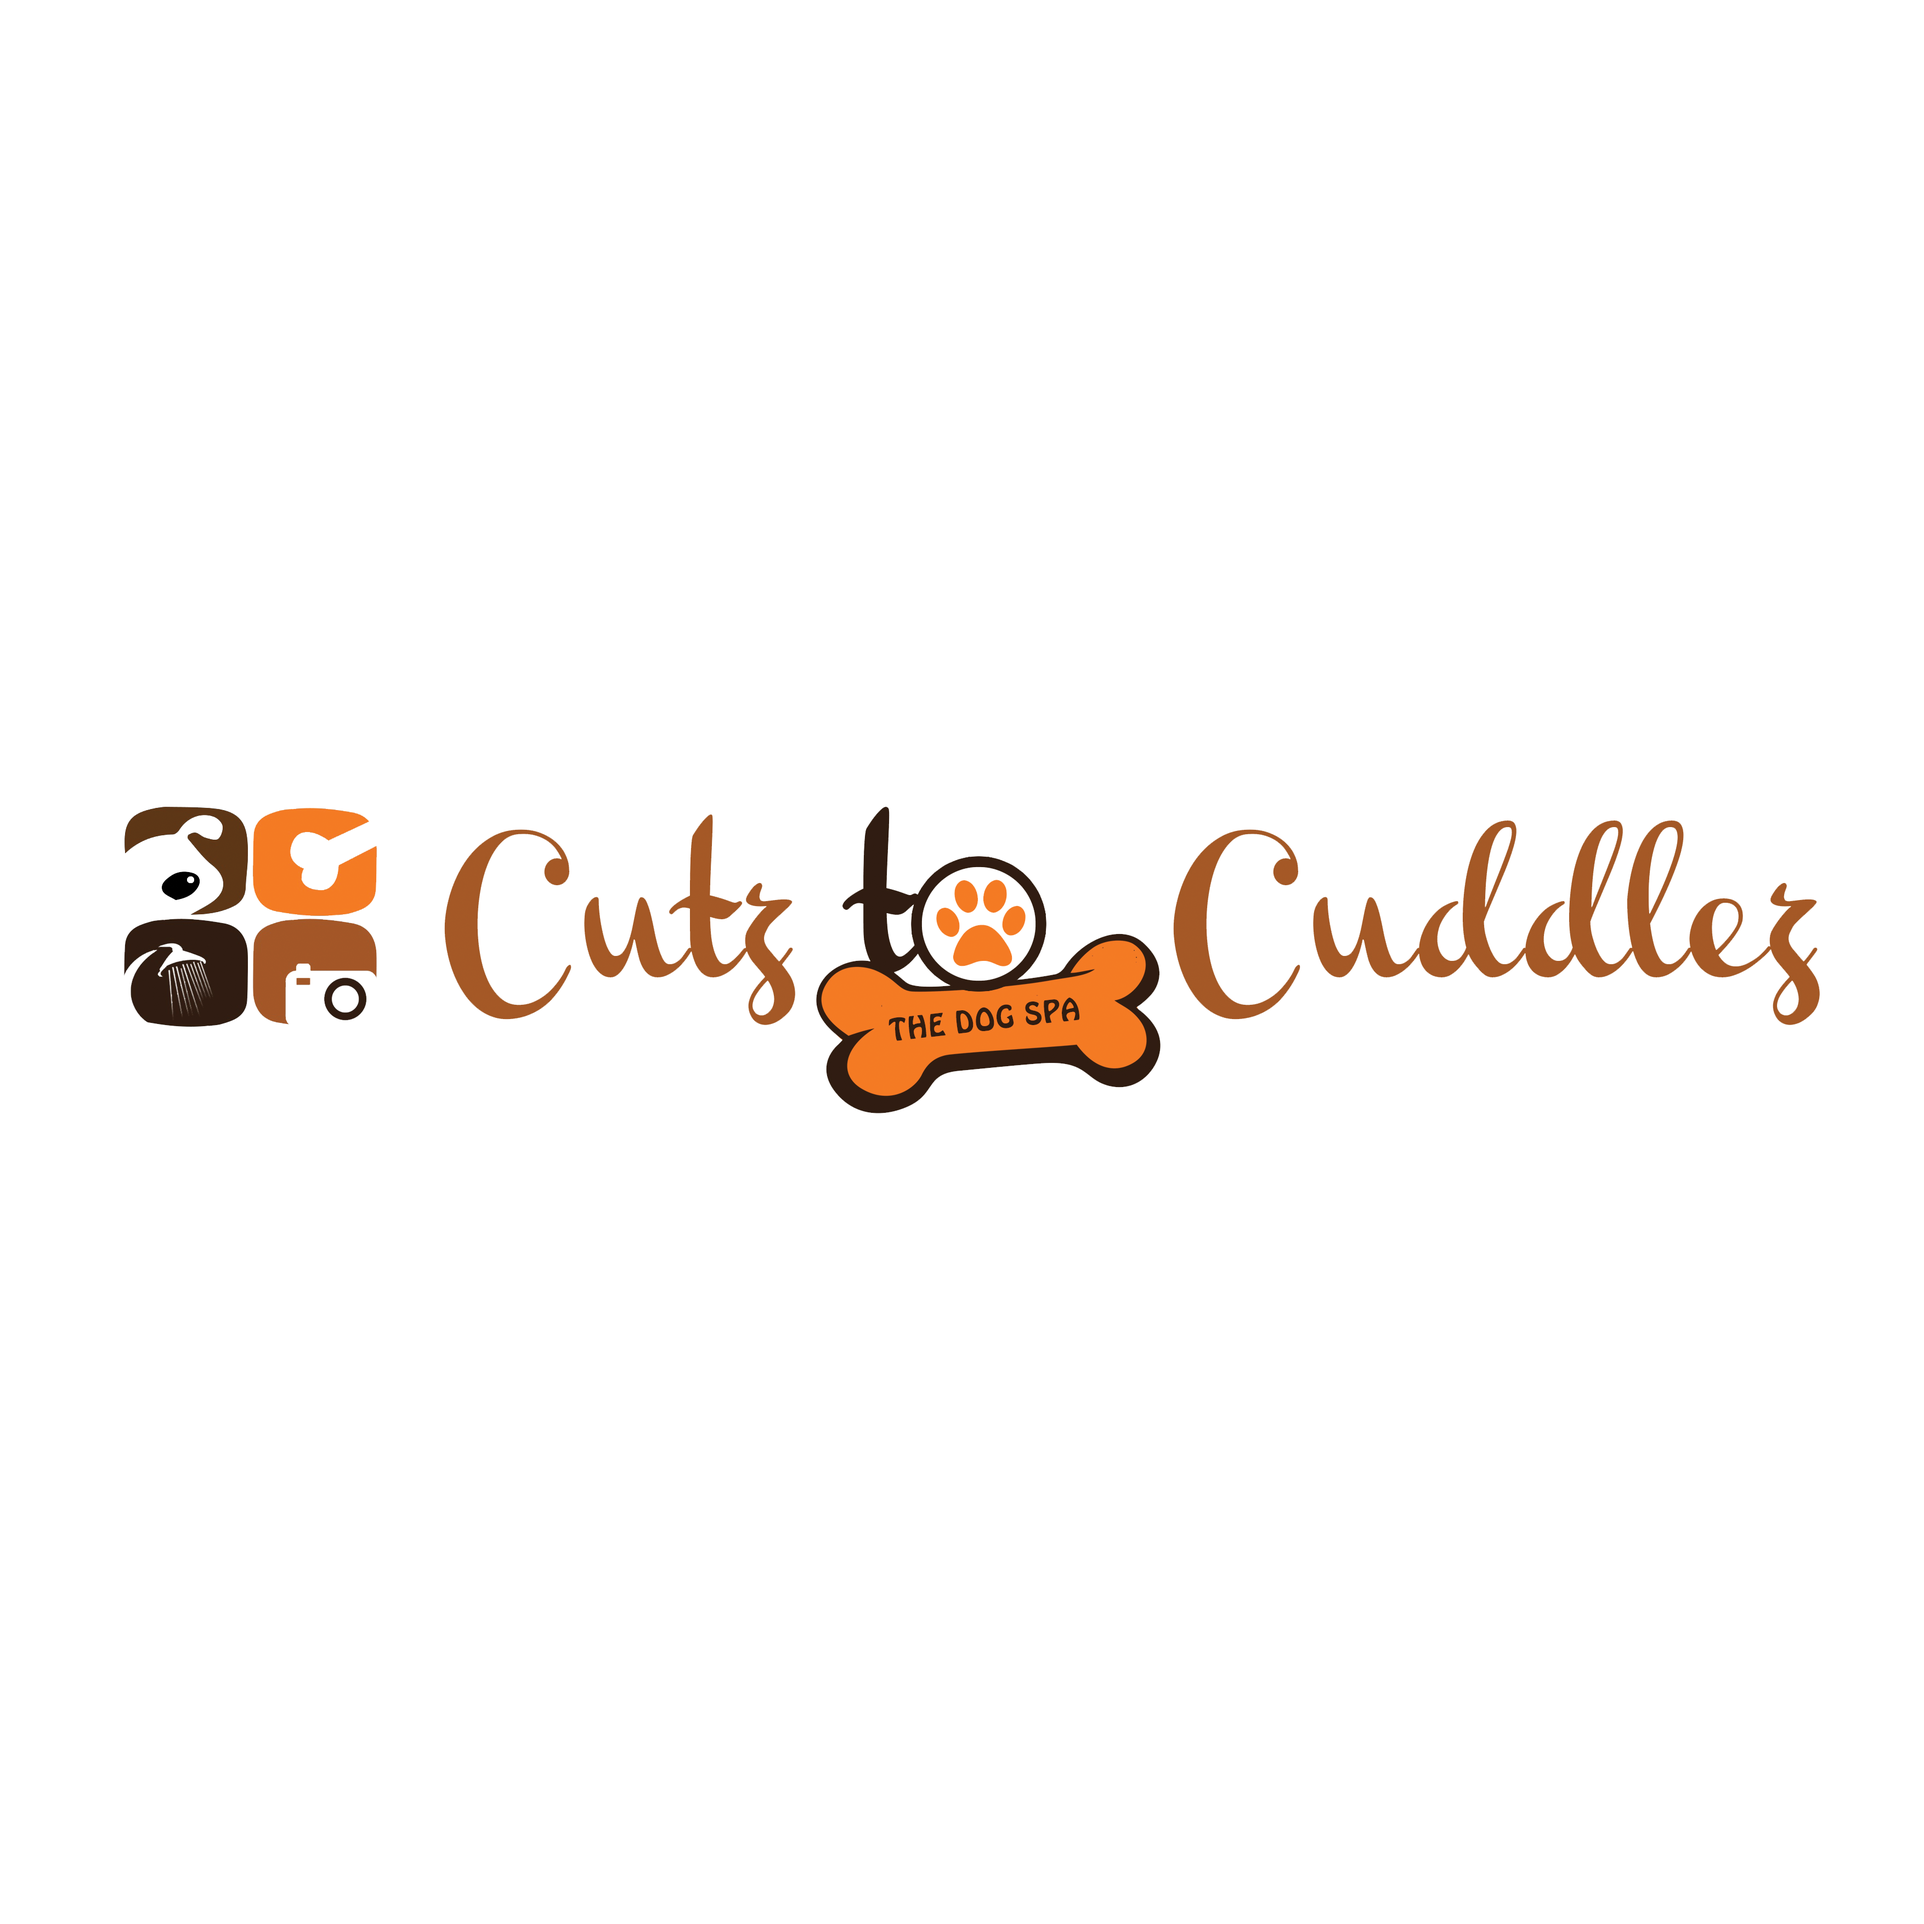
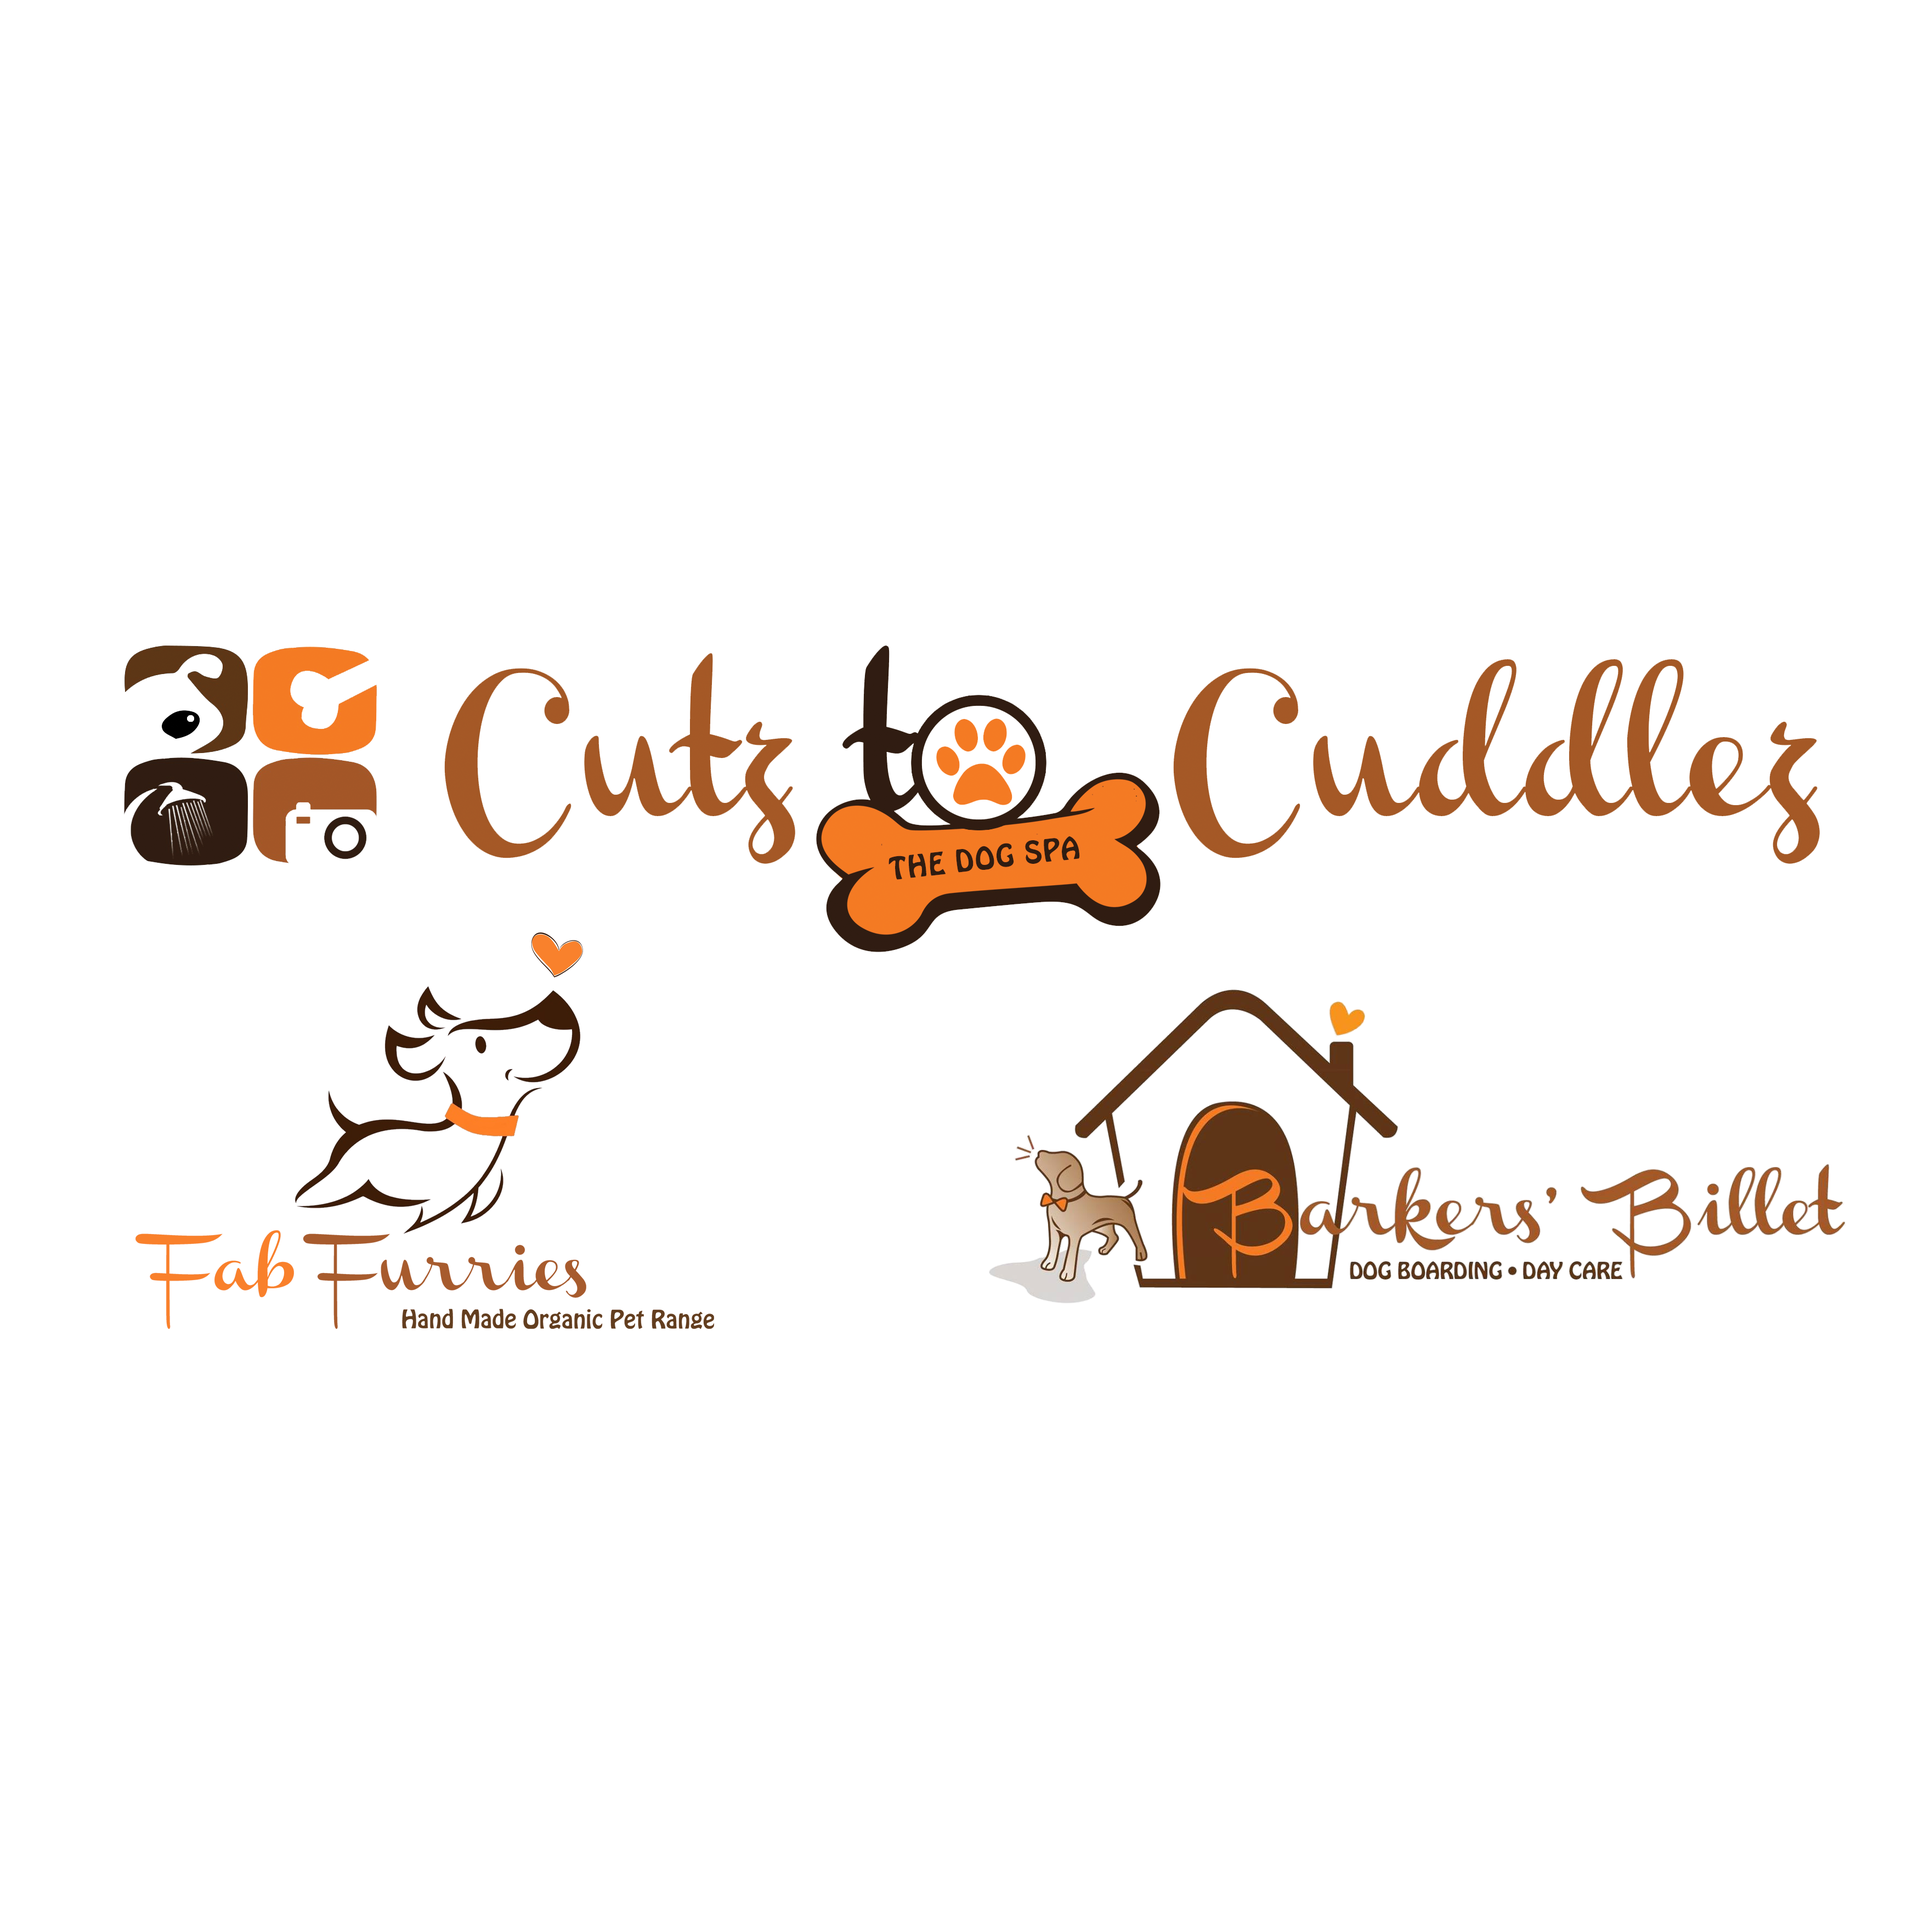
update

Changed region(s): [[0.0621, 0.3107, 0.9632, 0.7147], [0.8389, 0.5904, 0.9632, 0.6525], [0.3418, 0.6836, 0.3729, 0.7147]]

diff --git a/index.html b/index.html
@@ -20,7 +20,7 @@
 <div class="zoom-icon zoom-icon-in"></div>
 
 <div class="magazine-viewport">
-	<img src="pics/logo.png" style="width: 100%; display: block; margin-left: auto; margin-right: auto; margin-top: 150px;" href="./index.html">
+	<img src="pics/logo1.png" style="width: 100%; display: block; margin-left: auto; margin-right: auto; margin-top: -50px;" href="./index.html">
 	<div class="container">
 		<div class="magazine">
 			<!-- Next button -->
